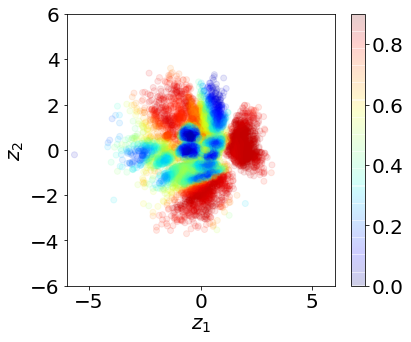
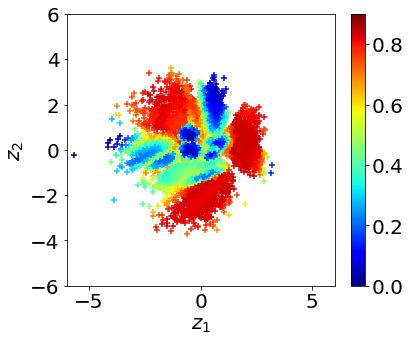
new figures

diff --git a/python/ssl_mar/plot.py b/python/ssl_mar/plot.py
@@ -58,8 +58,8 @@ def plot_digits(decoder):
     
 def plot_labeled_unlabeled(z_labeled, y_labeled, z_unlabeled):
     plt.figure(figsize=(6, 5))
-    plt.scatter(z_unlabeled[:, 0], z_unlabeled[:, 1], c=(0,0,0), alpha=0.05)
-    plt.scatter(z_labeled[:, 0], z_labeled[:, 1], c=y_labeled, cmap=cmap, vmin = -0.5, vmax = 9.5)
+    plt.scatter(z_unlabeled[:, 0], z_unlabeled[:, 1], marker='+', c=(0,0,0), alpha=0.05)
+    plt.scatter(z_labeled[:, 0], z_labeled[:, 1], marker='+', c=y_labeled, cmap=cmap, vmin = -0.5, vmax = 9.5)
     plt.xlabel("$z_1$")
     plt.ylabel("$z_2$")
     plt.xlim([-6, 6])
@@ -70,7 +70,7 @@ def plot_labeled_unlabeled(z_labeled, y_labeled, z_unlabeled):
     
 def plot_maxlrt(z_unlabeled, lrt_y): 
     plt.figure(figsize=(6, 5))
-    plt.scatter(z_unlabeled[:, 0], z_unlabeled[:, 1], c=np.max(lrt_y, axis=1), cmap='jet', vmin = -5, vmax = 5)
+    plt.scatter(z_unlabeled[:, 0], z_unlabeled[:, 1], c=np.max(lrt_y, axis=1), marker='+', cmap='jet', vmin = -5, vmax = 5)
     plt.xlabel("$z_1$")
     plt.ylabel("$z_2$")
     plt.xlim([-6, 6])
@@ -123,7 +123,7 @@ def plot_test(z_test, y_test_hat, y_test, pe_test):
     
     
     plt.figure(figsize=(6, 5))
-    plt.scatter(z_test[:, 0], z_test[:, 1], c=pe_test, alpha=0.1, cmap='jet', vmin = 0, vmax = .9)
+    plt.scatter(z_test[:, 0], z_test[:, 1], c=pe_test, marker='+', alpha=0.1, cmap='jet', vmin = 0, vmax = .9)
     plt.colorbar()
     plt.xlabel("$z_1$")
     plt.ylabel("$z_2$")
@@ -143,18 +143,18 @@ def plot_test(z_test, y_test_hat, y_test, pe_test):
 #    plt.ylim([-6, 6])
 #    plt.title('Estimated error probability of actual errors')
     
-    plt.figure(figsize=(6, 5))
-    plt.hist(pe_test[index_errors[0]], density=True)
-    plt.xlabel("Estimated error probability")
-    plt.ylabel("Density")
-    plt.savefig("density_pe_2.png")
+#    plt.figure(figsize=(6, 5))
+#    plt.hist(pe_test[index_errors[0]], density=True)
+#    plt.xlabel("Estimated error probability")
+#    plt.ylabel("Density")
+#    plt.savefig("density_pe_2.png")
     
 def plot_test_mcar(z_test, y_test_hat, y_test, pe_test, leftout_classes):
     index_errors_1 = np.nonzero(np.logical_and(y_test != y_test_hat, np.isin(y_test, leftout_classes)))
     index_errors_2 = np.nonzero(np.logical_and(y_test != y_test_hat, np.logical_not(np.isin(y_test, leftout_classes))))    
     
     plt.figure(figsize=(6, 5))
-    plt.scatter(z_test[:, 0], z_test[:, 1], c=pe_test, alpha=0.1, cmap='jet', vmin = 0, vmax = .9)
+    plt.scatter(z_test[:, 0], z_test[:, 1], c=pe_test, marker='+', cmap='jet', vmin = 0, vmax = .9)
     plt.colorbar()
     plt.xlabel("$z_1$")
     plt.ylabel("$z_2$")
@@ -162,22 +162,22 @@ def plot_test_mcar(z_test, y_test_hat, y_test, pe_test, leftout_classes):
     plt.ylim([-6, 6])
     plt.savefig("estimated_pe_mcar.png")
     
-    plt.figure(figsize=(5, 5))
-    plt.hist(pe_test[index_errors_1[0]], density=True, alpha=.5, label="Unobserved")
-    plt.hist(pe_test[index_errors_2[0]], density=True, alpha=.5, label="Observed")
-    plt.legend()
-    plt.xlim([0, .9])
-    plt.ylim([0, 10])
-    plt.xlabel("Estimated error probability")
-    plt.ylabel("Density")
-    plt.savefig("density_pe_mcar.png")
-    
+#    plt.figure(figsize=(5, 5))
+#    plt.hist(pe_test[index_errors_1[0]], density=True, alpha=.5, label="Unobserved")
+#    plt.hist(pe_test[index_errors_2[0]], density=True, alpha=.5, label="Observed")
+#    plt.legend()
+#    plt.xlim([0, .9])
+#    plt.ylim([0, 10])
+#    plt.xlabel("Estimated error probability")
+#    plt.ylabel("Density")
+#    plt.savefig("density_pe_mcar.png")
+#    
 def plot_test_mcar_soft(z_test, y_test_hat, y_test, pe_test, leftout_classes):
     index_errors_1 = np.nonzero(np.logical_and(y_test != y_test_hat, np.isin(y_test, leftout_classes)))
     index_errors_2 = np.nonzero(np.logical_and(y_test != y_test_hat, np.logical_not(np.isin(y_test, leftout_classes))))    
     
     plt.figure(figsize=(6, 5))
-    plt.scatter(z_test[:, 0], z_test[:, 1], c=pe_test, alpha=0.1, cmap='jet', vmin = 0, vmax = .9)
+    plt.scatter(z_test[:, 0], z_test[:, 1], c=pe_test, marker='+', cmap='jet', vmin = 0, vmax = .9)
     plt.colorbar()
     plt.xlabel("$z_1$")
     plt.ylabel("$z_2$")
@@ -185,22 +185,22 @@ def plot_test_mcar_soft(z_test, y_test_hat, y_test, pe_test, leftout_classes):
     plt.ylim([-6, 6])
     plt.savefig("estimated_pe_mcar_soft.png")
     
-    plt.figure(figsize=(5, 5))
-    plt.hist(pe_test[index_errors_1[0]], density=True, alpha=.5, label="Unobserved")
-    plt.hist(pe_test[index_errors_2[0]], density=True, alpha=.5, label="Observed")
-    plt.legend()
-    plt.xlim([0, .9])
-    plt.ylim([0, 10])
-    plt.xlabel("Estimated error probability")
-    plt.ylabel("Density")
-    plt.savefig("density_pe_mcar_soft.png")
+#    plt.figure(figsize=(5, 5))
+#    plt.hist(pe_test[index_errors_1[0]], density=True, alpha=.5, label="Unobserved")
+#    plt.hist(pe_test[index_errors_2[0]], density=True, alpha=.5, label="Observed")
+#    plt.legend()
+#    plt.xlim([0, .9])
+#    plt.ylim([0, 10])
+#    plt.xlabel("Estimated error probability")
+#    plt.ylabel("Density")
+#    plt.savefig("density_pe_mcar_soft.png")
     
 def plot_test_mar(z_test, y_test_hat, y_test, pe_test, leftout_classes):
     index_errors_1 = np.nonzero(np.logical_and(y_test != y_test_hat, np.isin(y_test, leftout_classes)))
     index_errors_2 = np.nonzero(np.logical_and(y_test != y_test_hat, np.logical_not(np.isin(y_test, leftout_classes))))    
     
     plt.figure(figsize=(6, 5))
-    plt.scatter(z_test[:, 0], z_test[:, 1], c=pe_test, alpha=0.1, cmap='jet', vmin = 0, vmax = .9)
+    plt.scatter(z_test[:, 0], z_test[:, 1], c=pe_test, marker='+', cmap='jet', vmin = 0, vmax = .9)
     plt.colorbar()
     plt.xlabel("$z_1$")
     plt.ylabel("$z_2$")
@@ -208,15 +208,15 @@ def plot_test_mar(z_test, y_test_hat, y_test, pe_test, leftout_classes):
     plt.ylim([-6, 6])
     plt.savefig("estimated_pe_mar.png")
     
-    plt.figure(figsize=(5, 5))
-    plt.hist(pe_test[index_errors_1[0]], density=True, alpha=.5, label="Unobserved")
-    plt.hist(pe_test[index_errors_2[0]], density=True, alpha=.5, label="Observed")
-    plt.legend()
-    plt.xlim([0, .9])
-    plt.ylim([0, 10])
-    plt.xlabel("Estimated error probability")
-    plt.ylabel("Density")
-    plt.savefig("density_pe_mar.png")
+#    plt.figure(figsize=(5, 5))
+#    plt.hist(pe_test[index_errors_1[0]], density=True, alpha=.5, label="Unobserved")
+#    plt.hist(pe_test[index_errors_2[0]], density=True, alpha=.5, label="Observed")
+#    plt.legend()
+#    plt.xlim([0, .9])
+#    plt.ylim([0, 10])
+#    plt.xlabel("Estimated error probability")
+#    plt.ylabel("Density")
+#    plt.savefig("density_pe_mar.png")
     
 def plot_topn_pe(x_test, z_test, y_test_hat, y_test, pe_test, decoder, topn):
     n = topn  # Top error probalities

diff --git a/python/ssl_mar/ssl_mar.py b/python/ssl_mar/ssl_mar.py
@@ -105,8 +105,8 @@ my_plt.plot_maxlrt(z_unlabeled, lrt_y)
 #my_plt.plot_marginallrt(z_unlabeled, lrt_y)    
 
 # Sampling from the posterior
-y_unlabeled_hat = data.sampling_posterior_1(ll_y)
-#y_unlabeled_hat = data.sampling_posterior_2(ll_y, lrt_y)
+#y_unlabeled_hat = data.sampling_posterior_1(ll_y)
+y_unlabeled_hat = data.sampling_posterior_2(ll_y, lrt_y)
 #y_unlabeled_hat, _ = data.mle(ll_y)
 #my_plt.plot_samples(z_unlabeled, y_unlabeled_hat, y_unlabeled)
 
@@ -152,11 +152,11 @@ ll_y_test[:, leftout_classes] = np.NINF
 y_test_mle, pe_test_mle = data.mle(ll_y_test)
 #my_plt.plot_test(z_test, y_test_mle, y_test, pe_test_mle)
 
-#my_plt.plot_test_mar(z_test, y_test_mle, y_test, pe_test_mle, leftout_classes)
+my_plt.plot_test_mar(z_test, y_test_mle, y_test, pe_test_mle, leftout_classes)
 #my_plt.plot_test_mar_2(z_test, y_test_mle, y_test, pe_test_mle, leftout_classes)
 
 #my_plt.plot_test_mcar_soft(z_test, y_test_mle, y_test, pe_test_mle, leftout_classes)
-my_plt.plot_test_mcar_soft_2(z_test, y_test_mle, y_test, pe_test_mle, leftout_classes)
+#my_plt.plot_test_mcar_soft_2(z_test, y_test_mle, y_test, pe_test_mle, leftout_classes)
 
 #my_plt.plot_test_mcar(z_test, y_test_mle, y_test, pe_test_mle, leftout_classes)
 #my_plt.plot_test_mcar_2(z_test, y_test_mle, y_test, pe_test_mle, leftout_classes)
